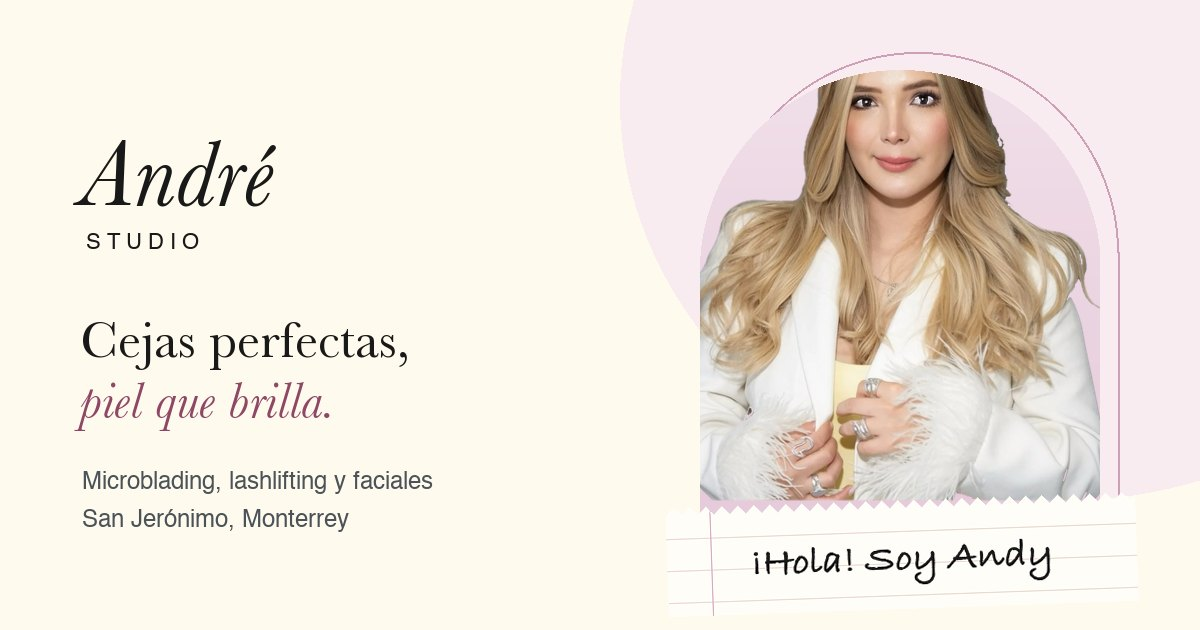
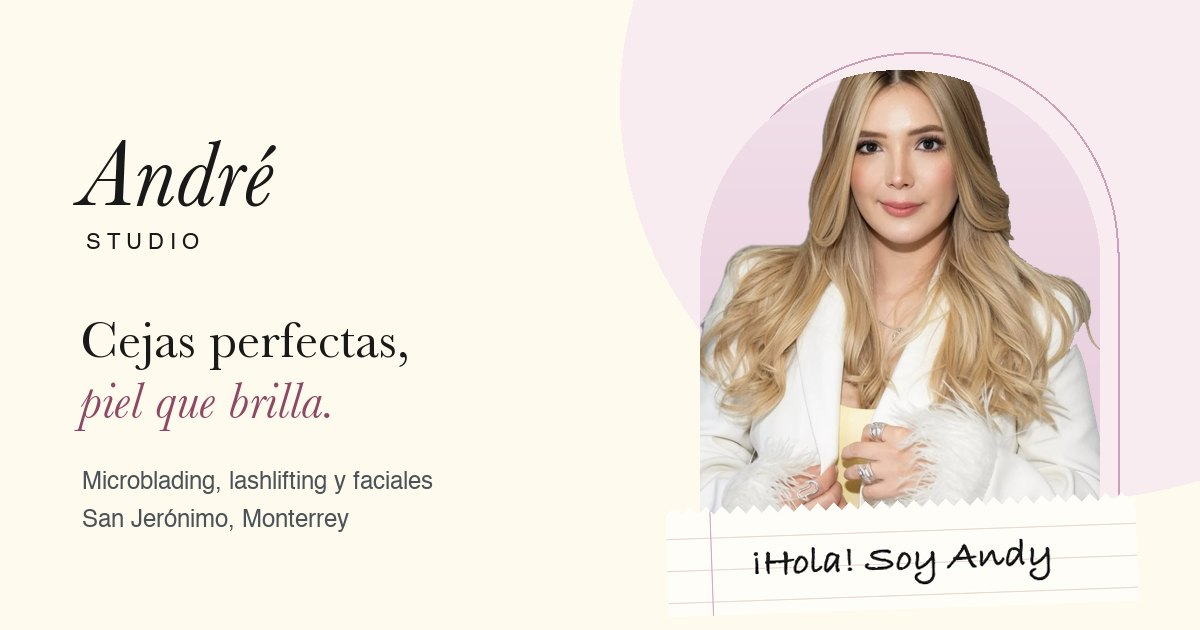
Correct years of experience and owner image fixed

Changed region(s): [[0.5858, 0.0905, 0.925, 0.8143]]

diff --git a/src/content/dictionaries/es.ts b/src/content/dictionaries/es.ts
@@ -36,7 +36,7 @@ export const es = {
     secondary: "Ver servicios",
     ownerAlt: "Andrea Chávez, fundadora de André Studio",
     hello: "¡Hola! Soy Andy",
-    experience: "+7 años creando cejas perfectas",
+    experience: "+8 años creando cejas perfectas",
   },
   services: {
     title: "Elige lo que",
@@ -69,7 +69,7 @@ export const es = {
     reasons: [
       { title: "Atención personalizada", text: "Diseñamos tus cejas a tu medida, según tu rostro y estilo." },
       { title: "Técnica avanzada", text: "Técnicas precisas y actualizadas que imitan el vello natural." },
-      { title: "Experiencia comprobada", text: "Más de 7 años creando cejas perfectas, sin dolor." },
+      { title: "Experiencia comprobada", text: "Más de 8 años creando cejas perfectas, sin dolor." },
       { title: "Productos premium", text: "Pigmentos y materiales de alta calidad para un resultado impecable." },
       { title: "Ambiente acogedor", text: "Un estudio cómodo y profesional para que estés súper a gusto." },
       { title: "Seguimiento post-tratamiento", text: "Te acompañamos en la cicatrización y los retoques." },

diff --git a/src/components/sections/Hero.tsx b/src/components/sections/Hero.tsx
@@ -95,10 +95,10 @@ export function Hero() {
                 animate={{ y: 0, opacity: 1 }}
                 transition={{ type: "spring", stiffness: 60, damping: 18, delay: 0.25 }}
                 style={{ scale: portraitScale }}
-                className="absolute top-[-3.5%] left-[46.6%] aspect-square w-[112%] -translate-x-1/2 origin-top"
+                className="absolute top-[-3%] left-[47.8%] aspect-[3/4] w-[112%] -translate-x-1/2 origin-top"
               >
                 <Image
-                  src="/images/owner-cutout.webp"
+                  src="/images/owner-portrait.webp"
                   alt={dict.hero.ownerAlt}
                   fill
                   priority

diff --git a/src/content/dictionaries/en.ts b/src/content/dictionaries/en.ts
@@ -38,7 +38,7 @@ export const en: Dictionary = {
     secondary: "See services",
     ownerAlt: "Andrea Chávez, founder of André Studio",
     hello: "Hi! I'm Andy",
-    experience: "7+ years creating perfect brows",
+    experience: "8+ years creating perfect brows",
   },
   services: {
     title: "Choose what",

diff --git a/PROJECT.md b/PROJECT.md
@@ -68,7 +68,7 @@ Working specification derived from `CLIENT.md` (user-owned brief), the client's 
 
 ## 6. Assets
 
-- `public/images/owner-cutout.webp`: owner_picture.jpg with background removed locally (macOS Vision); face untouched.
+- `public/images/owner-portrait.webp`: owner_picture.jpg (updated 2026-10-13, 3:4 half-body) with background removed locally (macOS Vision) plus cleanup of a leftover grey-wall patch; face untouched.
 - Real photos from the current site (client work with "André Ch" watermark, studio interior) in `public/images/real/`.
 - AI-generated (Higgsfield, GPT Image 2.5 low quality) for treatments/still lifes that on the current site used Canva stock: `public/images/gen/`. Never used to depict micropigmentation "results".
 - **Usage rights: pending client confirmation** for all photos, including whether the real photos may be reused.

diff --git a/STATE.md b/STATE.md
@@ -1,5 +1,12 @@
 # STATE.md: André Studio
 
+## 2026-10-13: New owner photo
+
+### Completed
+- Client replaced `references/owner_picture.jpg` with a fuller 3:4 half-body shot. Background removed with the same macOS Vision foreground mask; a leftover grey-wall patch beside the right shoulder/sleeve was removed by colour threshold (low saturation, dark) on components touching the transparent area.
+- Saved as `public/images/owner-portrait.webp` (new name on purpose: `/_next/image` responses are cached 4h, so reusing `owner-cutout.webp` would keep showing the old photo). Old file removed.
+- Hero portrait container changed from `aspect-square` to `aspect-[3/4]` (`top-[-3%] left-[47.8%] w-[112%]`). OG image regenerated with the new photo.
+
 ## 2026-10-12: Phase 1 landing page built
 
 ### Completed
